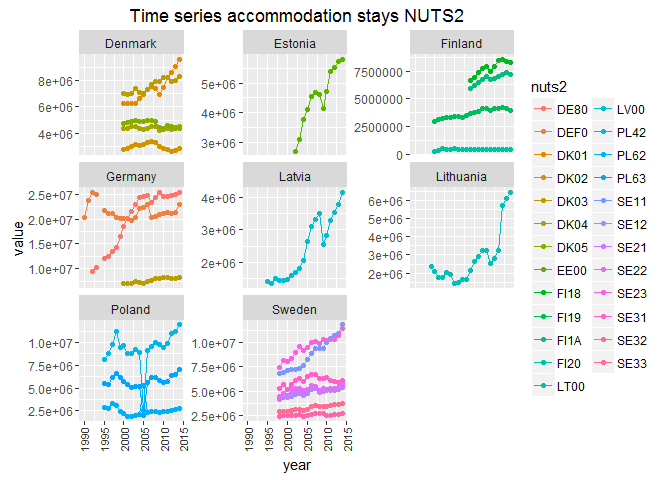
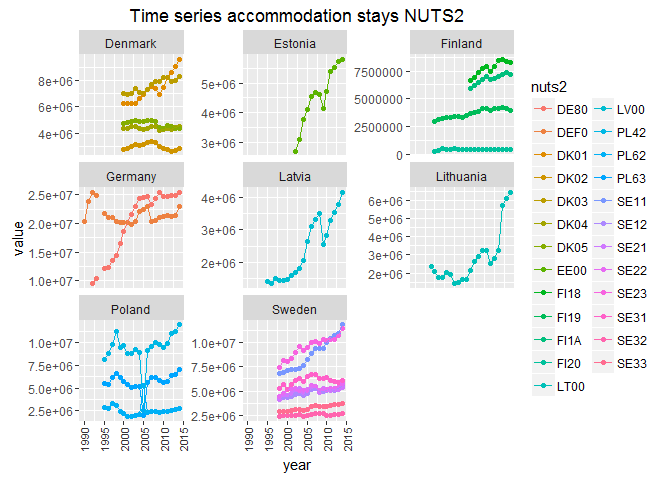
rerun TR prep with updated mis-assigned regions

Changed region(s): [[0.0312, 0.4062, 0.2812, 0.5938], [0.1875, 0.5625, 0.2812, 0.5938]]

diff --git a/baltic2015/prep/TR/tr_prep.md b/baltic2015/prep/TR/tr_prep.md
@@ -876,13 +876,13 @@ nuts2_pop_area2 = nuts2_pop_area1 %>%
 str(nuts2_pop_area2)
 ```
 
-    ## Classes 'tbl_df', 'tbl' and 'data.frame':    60 obs. of  8 variables:
+    ## Classes 'tbl_df', 'tbl' and 'data.frame':    59 obs. of  8 variables:
     ##  $ rgn_id     : int  1 1 2 2 2 2 3 3 3 4 ...
     ##  $ nuts2      : chr  "SE22" "SE23" "DK01" "DK02" ...
     ##  $ country    : chr  "Sweden" "Sweden" "Denmark" "Denmark" ...
     ##  $ country_abb: chr  "SE" "SE" "DK" "DK" ...
     ##  $ basin      : chr  "Kattegat" "Kattegat" "Kattegat" "Kattegat" ...
-    ##  $ pop        : int  116851 702394 266145 355373 175718 270701 413955 962944 605097 226701 ...
+    ##  $ pop        : int  116851 702394 266145 355373 175718 270701 413955 1000216 605097 226701 ...
     ##  $ pop_km2    : num  10.04 2.42 18.31 10.96 4.3 ...
     ##  $ area       : num  11636 290554 14538 32425 40858 ...
 
@@ -906,19 +906,19 @@ dim(accom1)##11250     8
 dim(nuts2_pop_area2) ## 60 8
 ```
 
-    ## [1] 60  8
+    ## [1] 59  8
 
 ``` r
 dim(accom_nuts1) ##1400  14
 ```
 
-    ## [1] 1400   14
+    ## [1] 1375   14
 
 ``` r
 str(accom_nuts1) ## this is now missing the Finnish data where there are name discrepancies
 ```
 
-    ## 'data.frame':    1400 obs. of  14 variables:
+    ## 'data.frame':    1375 obs. of  14 variables:
     ##  $ year        : int  1990 1990 1990 1990 1990 1990 1990 1990 1990 1990 ...
     ##  $ nuts2       : chr  "DK01" "DK01" "DK01" "DK01" ...
     ##  $ nuts_name   : chr  "Hovedstaden" "Hovedstaden" "Hovedstaden" "Hovedstaden" ...
@@ -930,7 +930,7 @@ str(accom_nuts1) ## this is now missing the Finnish data where there are name di
     ##  $ country     : chr  "Denmark" "Denmark" "Denmark" "Denmark" ...
     ##  $ country_abb : chr  "DK" "DK" "DK" "DK" ...
     ##  $ basin       : chr  "Kattegat" "The Sound" "Arkona Basin" "Bornholm Basin" ...
-    ##  $ pop         : int  266145 1245898 1136201 44406 355373 413955 14518 24841 499769 962944 ...
+    ##  $ pop         : int  266145 1245898 1136201 44406 355373 413955 14518 24841 499769 1000216 ...
     ##  $ pop_km2     : num  18.31 106.16 201.2 5.91 10.96 ...
     ##  $ area        : num  14538 11736 5647 7517 32425 ...
 
@@ -1262,7 +1262,7 @@ ggplot(accom_nuts2)+
   ggtitle("Time series accommodation stays NUTS2")
 ```
 
-    ## Warning: Removed 475 rows containing missing values (geom_point).
+    ## Warning: Removed 465 rows containing missing values (geom_point).
 
     ## Warning: Removed 459 rows containing missing values (geom_path).
 
@@ -1541,7 +1541,7 @@ ggplot(accom_coast_nuts2)+
 str(accom_nuts2)
 ```
 
-    ## 'data.frame':    1500 obs. of  14 variables:
+    ## 'data.frame':    1475 obs. of  14 variables:
     ##  $ year        : int  1990 1990 1990 1990 1990 1990 1990 1990 1990 1990 ...
     ##  $ nuts2       : chr  "DK01" "DK01" "DK01" "DK01" ...
     ##  $ nuts_name   : chr  "Hovedstaden" "Hovedstaden" "Hovedstaden" "Hovedstaden" ...
@@ -1553,7 +1553,7 @@ str(accom_nuts2)
     ##  $ country     : chr  "Denmark" "Denmark" "Denmark" "Denmark" ...
     ##  $ country_abb : chr  "DK" "DK" "DK" "DK" ...
     ##  $ basin       : chr  "Kattegat" "The Sound" "Arkona Basin" "Bornholm Basin" ...
-    ##  $ pop         : int  266145 1245898 1136201 44406 355373 413955 14518 24841 499769 962944 ...
+    ##  $ pop         : int  266145 1245898 1136201 44406 355373 413955 14518 24841 499769 1000216 ...
     ##  $ pop_km2     : num  18.31 106.16 201.2 5.91 10.96 ...
     ##  $ area        : num  14538 11736 5647 7517 32425 ...
 
